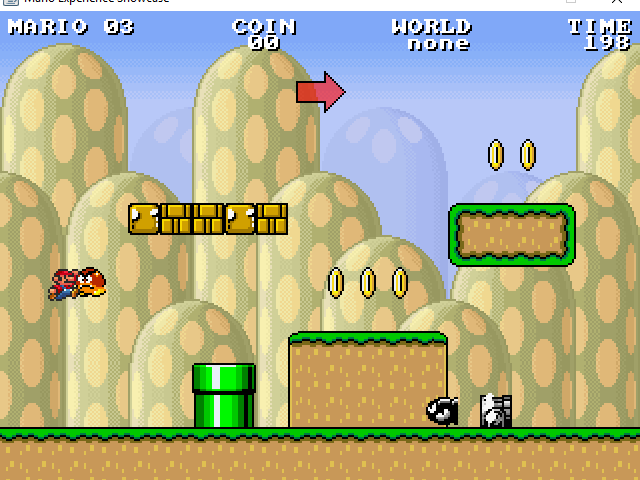
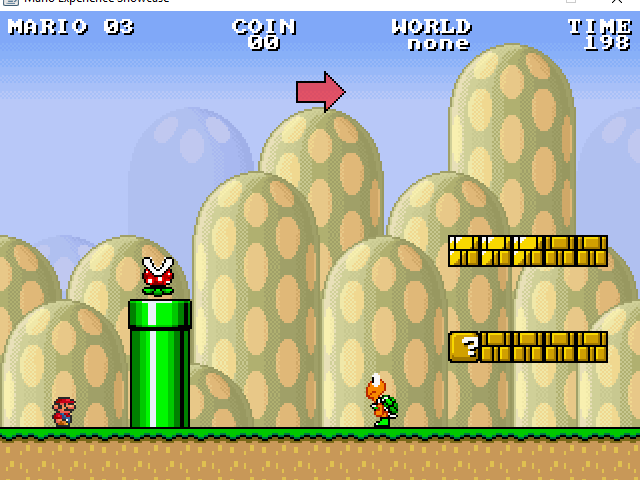
working

diff --git a/PruningMarioResearch/src/beauty/BeautyCustomizedLevel.java b/PruningMarioResearch/src/beauty/BeautyCustomizedLevel.java
@@ -47,6 +47,8 @@ public class BeautyCustomizedLevel extends Level{
 		Random random;
 		public static long lastSeed;
 		private ArrayList<BlockNode> Beststates = new ArrayList<BlockNode>();
+		private ArrayList<BlockNode> Beststates2 = new ArrayList<BlockNode>();
+		private ArrayList<BlockNode> BestGlobalstates = new ArrayList<BlockNode>();
 		private int maxScreens=100;
 		
 		private int floorTileHeight=0;
@@ -295,6 +297,7 @@ public class BeautyCustomizedLevel extends Level{
 			ArrayList<BlockNode> states = new ArrayList<BlockNode>();
 			//Building the graph in a deph way
 	    	GraphBuilder objGrapB= new GraphBuilder(1);
+	    	GraphBuilder objGrapB2= new GraphBuilder(1);
 	    	int numElements=objElem.getNumberObjects();
 	    	int numEnemies=objElem.getNumberObjectsEnemies();
 	    	int globalControlSearch=0;
@@ -305,11 +308,23 @@ public class BeautyCustomizedLevel extends Level{
 	    	//Beststates=objGrapB.relativePositionDepthSearch(mediumStraight,height,numElements-numEnemies,numElements-numEnemies,states,objConstraints, objElem.getFinalList(),objElem,-mediumStraight+2,mediumStraight-2,floorTileHeight,0,0,numEnemies,random,globalControlSearch);
 	    	//Beststates=objGrapB.relativeTransPositionDepthSearch(mediumStraight,height,numElements,numElements,states,objConstraints, objElem.getFinalList(),objElem,-mediumStraight+1,mediumStraight-1,floorTileHeight,0,0,currentState,hTable);
 	    	//Beststates=objGrapB.DepthSearchCenterFrame(mediumStraight,height,numElements-numEnemies,numElements-numEnemies,states,objConstraints, objElem.getFinalList(),objElem,1,mediumStraight-2,floorTileHeight,0,0,numEnemies,random,globalControlSearch);
-	    	Beststates=objGrapB.DepthSearchCenterFramePruning(mediumStraight,height,numElements-numEnemies,numElements-numEnemies,states,objConstraints, objElem.getFinalList(),objElem,1,mediumStraight-2,floorTileHeight,0,0,numEnemies,random,globalControlSearch,8);
+	    	Beststates=objGrapB.DepthSearchCenterFramePruning(mediumStraight,height,numElements-numEnemies,numElements-numEnemies,states,objConstraints, objElem.getFinalList(),objElem,1,mediumStraight-2,floorTileHeight,0,0,numEnemies,random,globalControlSearch,8.5);
 	    	//Beststates=objGrapB.DepthSearchPruningAlt(mediumStraight,height,numElements-numEnemies,numElements-numEnemies,states,objConstraints, objElem.getFinalList(),objElem,1,mediumStraight-2,floorTileHeight,0,0,numEnemies,random,globalControlSearch);
+	    	Beststates2=objGrapB2.DepthSearchCenterFramePruning(mediumStraight,height,numElements-numEnemies,numElements-numEnemies,states,objConstraints, objElem.getFinalList(),objElem,1,mediumStraight-2,floorTileHeight,0,0,numEnemies,random,globalControlSearch,8.0);
 	    	
-	    	double bestSYmmetry=objGrapB.bestSymmetryV;
-	    	System.out.println("bestSym "+bestSYmmetry);
+	    	if(objGrapB.bestSymmetryV>objGrapB.bestSymmetryV)
+	    	{
+	    		double bestSYmmetry=objGrapB.bestSymmetryV;
+	    		System.out.println("bestSym "+bestSYmmetry);
+	    		BestGlobalstates=Beststates;
+	    		
+	    	}
+	    	else
+	    	{
+	    		double bestSYmmetry=objGrapB2.bestSymmetryV;
+	    		System.out.println("bestSym "+bestSYmmetry);
+	    		BestGlobalstates=Beststates2;
+	    	}
 	    	
 	    	long stopTime = System.currentTimeMillis();
 	        long elapsedTime = stopTime - startTime;
@@ -327,8 +342,8 @@ public class BeautyCustomizedLevel extends Level{
 	        
 	        //here we are painting as the best branch founded
 	        
-	        System.out.println("nene "+Beststates.size());
-	        Iterator<BlockNode> nombreIterator = Beststates.iterator();
+	        System.out.println("nene "+BestGlobalstates.size());
+	        Iterator<BlockNode> nombreIterator = BestGlobalstates.iterator();
 	        while(nombreIterator.hasNext()){
 	        	BlockNode elemento = nombreIterator.next();
 	        	System.out.print(elemento.getID()+"("+elemento.getX()+" "+elemento.getY()+" ) - "+elemento.getType()+" "+elemento.getIdElement()+ " / ");
@@ -337,7 +352,7 @@ public class BeautyCustomizedLevel extends Level{
 	        
 	        //Here we will put the elements on the tile
 	        try {
-	        Level levelScreen=PaintElements(Beststates,this);
+	        Level levelScreen=PaintElements(BestGlobalstates,this);
 	        Screen objScreen=new Screen();
 			objScreen.SaveScreen(levelScreen,odds,objElem);
     		InformacoesTelas info = new InformacoesTelas();

diff --git a/PruningMarioResearch/src/graphBuilder/GraphBuilder.java b/PruningMarioResearch/src/graphBuilder/GraphBuilder.java
@@ -2130,7 +2130,7 @@ public class GraphBuilder
         //here we will calculate the center of mass
         centerOfMassDepthSearchCenterFrame(states,objElemP,height,floor);
        // symmetryV=symettry1Areas(states, objElemP, xCenterMassGeneral, yCenterMassGeneral,xCenterMassCoins, yCenterMassCoins);
-        symmetryV=Rythm1Areas(states, xCenterMassGeneral, yCenterMassGeneral,objElemP );        
+        symmetryV=Rythm1AreasVertical(states, xCenterMassGeneral, yCenterMassGeneral,objElemP );        
         double DistanceX=distanceBetweenX(states, objElemP, xCenterMassGeneral, yCenterMassGeneral,xCenterMassCoins, yCenterMassCoins);
         
         if(symmetryV<bestSymmetryV)
